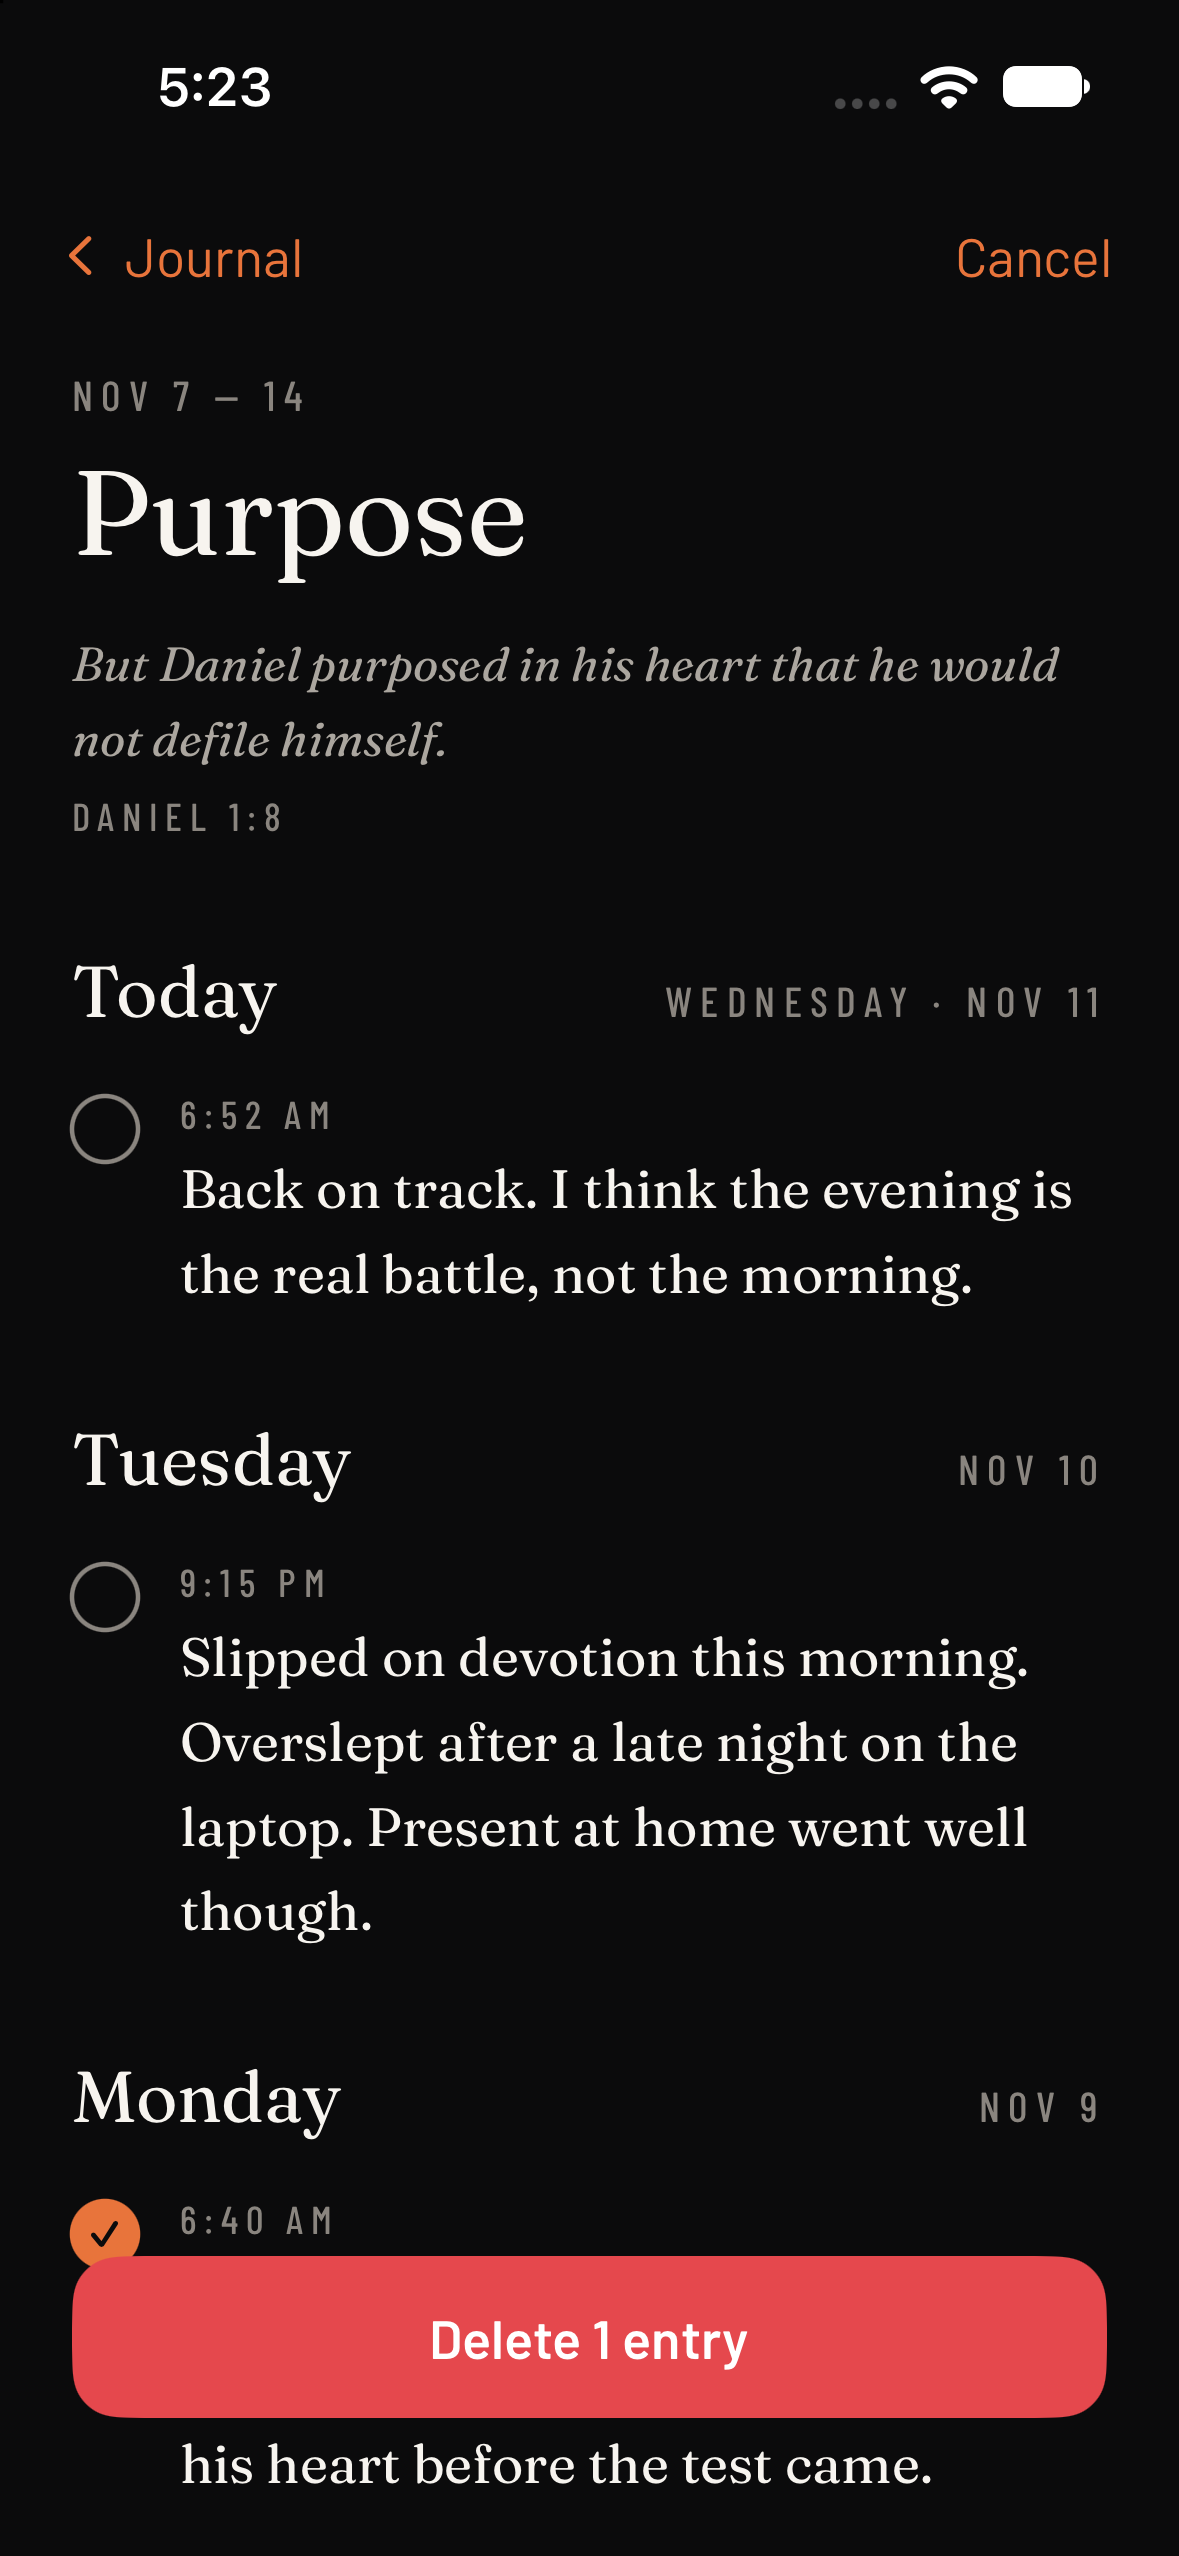
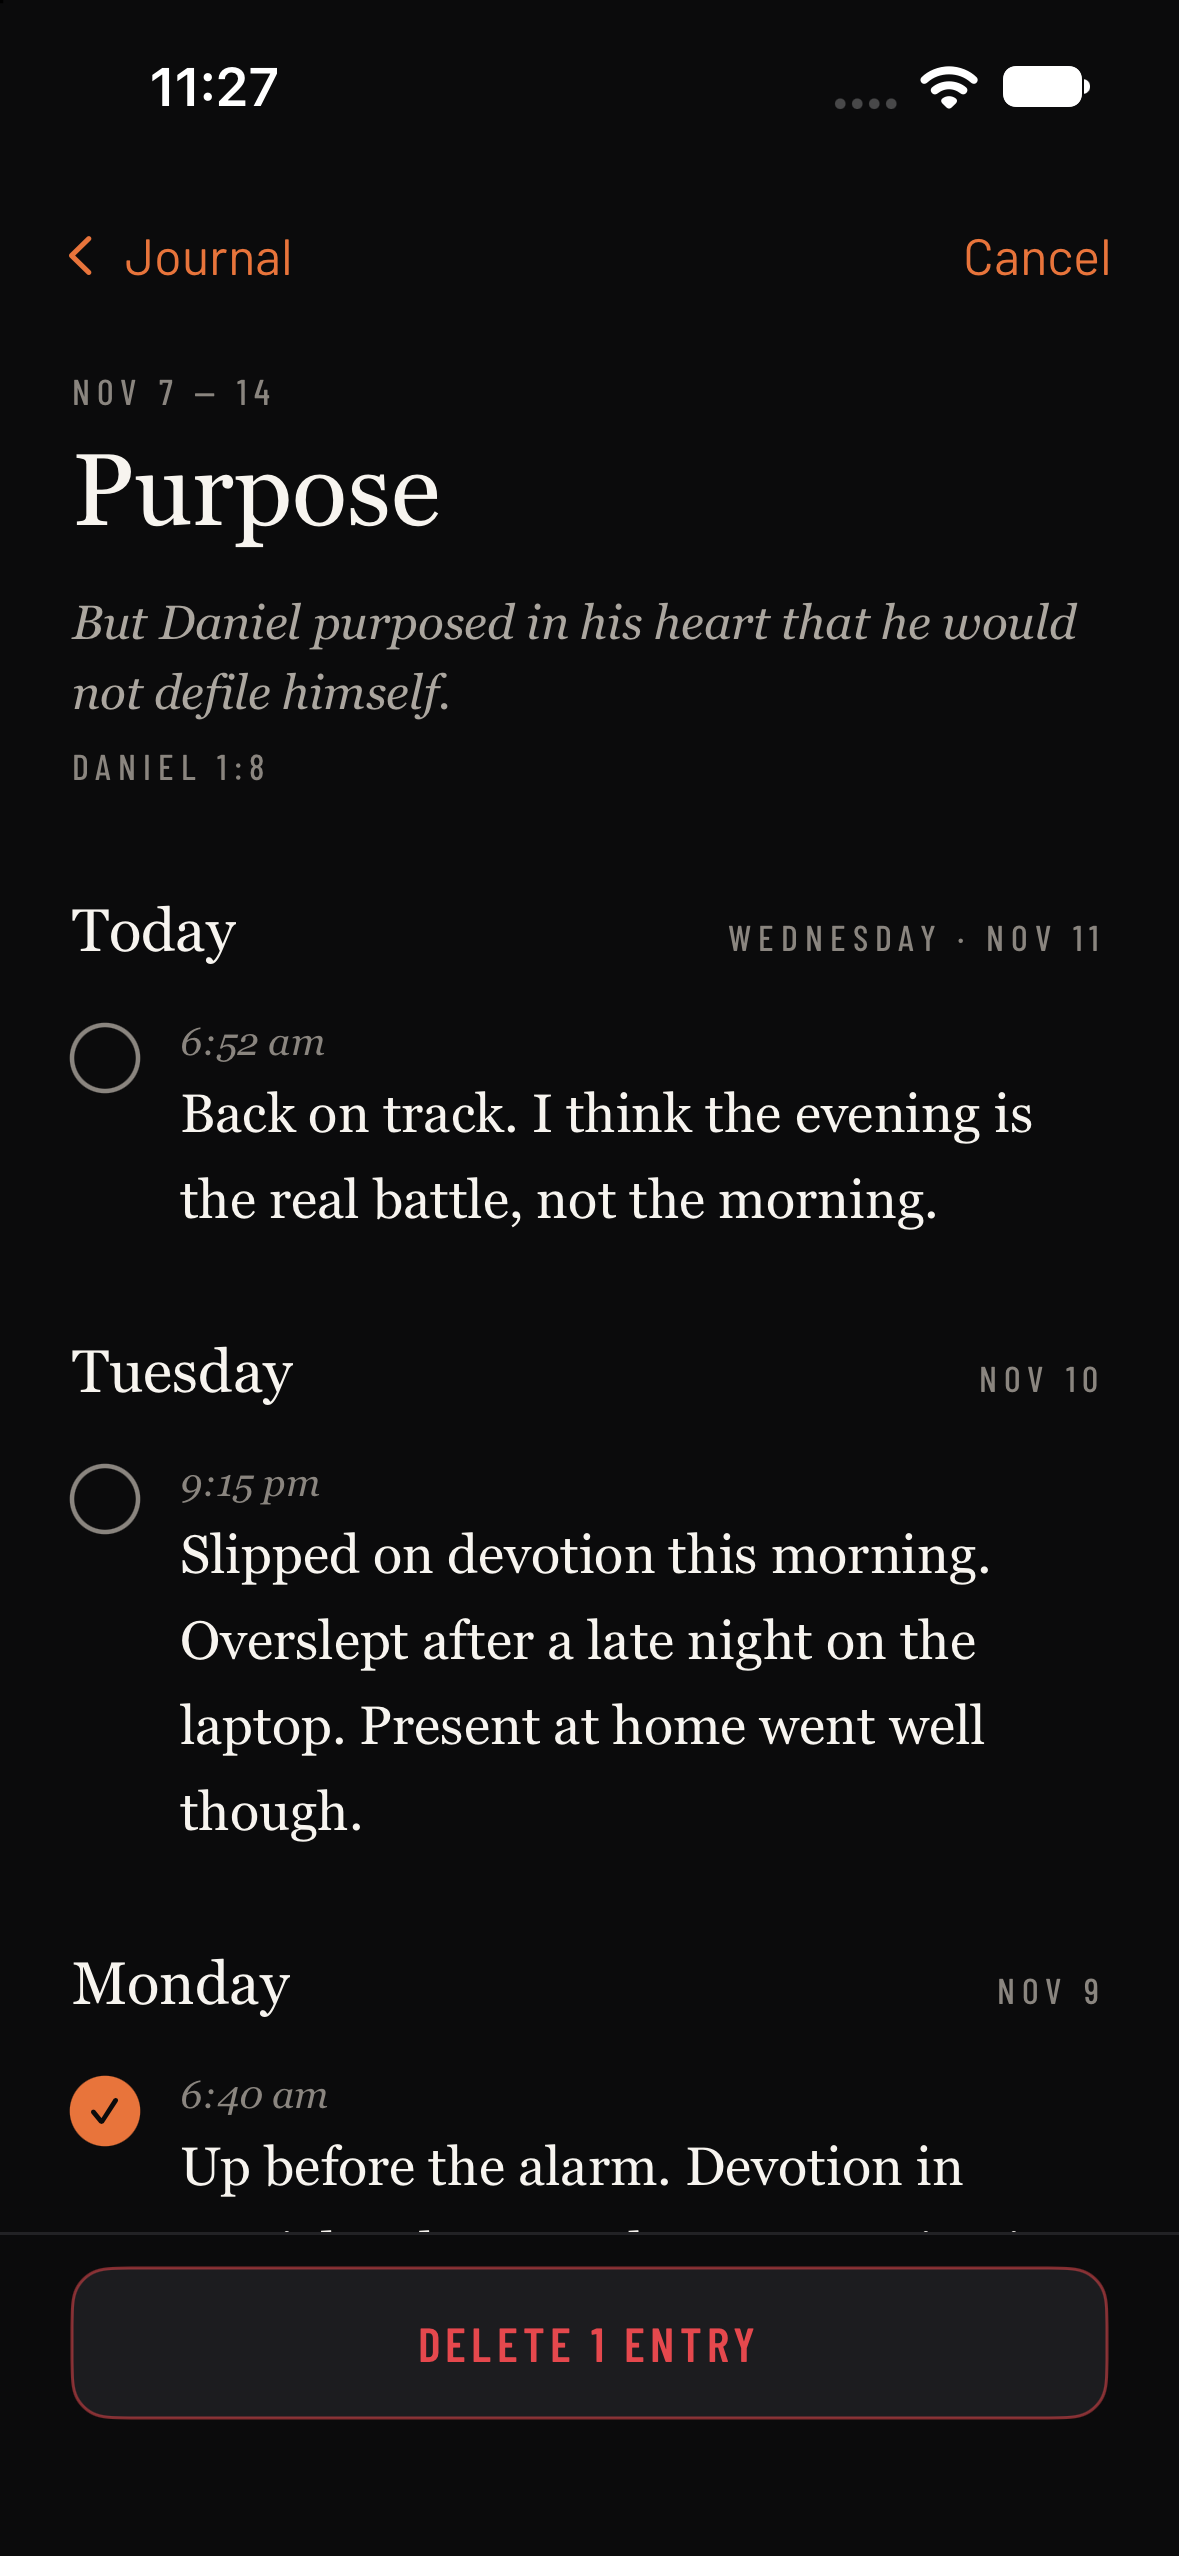
iOS: delete-entries button in the app's own style (outlined row, red caps), on a solid footer

diff --git a/ios/WeeklyDirection/ReflectView.swift b/ios/WeeklyDirection/ReflectView.swift
@@ -42,12 +42,18 @@ struct WeekPage: View {
             if selecting {
                 Button { confirmDelete = true } label: {
                     Text(picked.isEmpty ? "Delete" : "Delete \(picked.count) \(picked.count == 1 ? "entry" : "entries")")
-                        .jbutton().foregroundStyle(.white)
-                        .frame(maxWidth: .infinity).frame(height: 54)
-                        .background(Theme.danger.opacity(picked.isEmpty ? 0.4 : 1), in: RoundedRectangle(cornerRadius: Theme.r(16), style: .continuous))
+                        // the app's own button shape: a quiet outlined row, red only in the words (no filled red slab)
+                        .caps(16).foregroundStyle(picked.isEmpty ? Theme.mu2 : Theme.danger)
+                        .frame(maxWidth: .infinity).frame(height: 50)
+                        .background(Theme.card2, in: RoundedRectangle(cornerRadius: Theme.r(13), style: .continuous))
+                        .overlay(RoundedRectangle(cornerRadius: Theme.r(13), style: .continuous)
+                            .stroke(picked.isEmpty ? Theme.line : Theme.danger.opacity(0.55), lineWidth: 1))
                 }
                 .buttonStyle(.plain).disabled(picked.isEmpty)
-                .padding(.horizontal, 24).padding(.bottom, 12)
+                .padding(.horizontal, 24).padding(.top, 12).padding(.bottom, 12)
+                // a solid footer: entries scroll behind it, never past it
+                .background(Theme.bg.ignoresSafeArea(edges: .bottom))
+                .overlay(alignment: .top) { Rectangle().fill(Theme.rule).frame(height: 1) }
             }
         }
         .background(Theme.bg.ignoresSafeArea())
